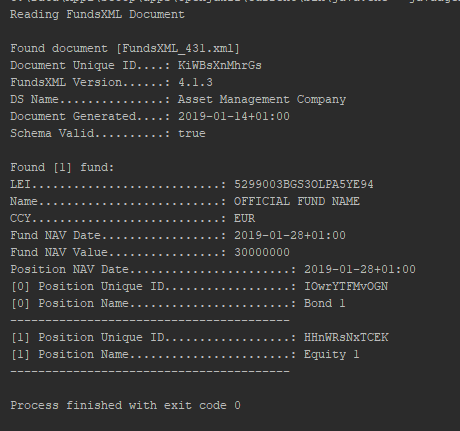
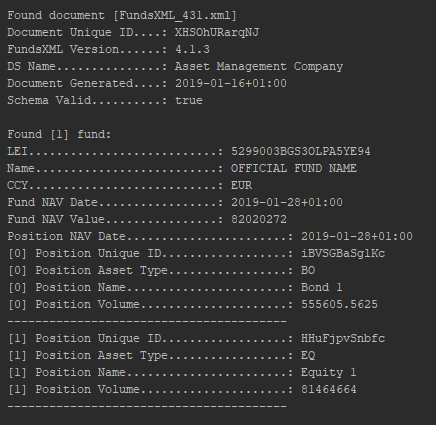
typo + volumes

diff --git a/codeExamples/java/V413/src/main/java/org/fundsxml_413/CreateFundsXMLFile.java b/codeExamples/java/V413/src/main/java/org/fundsxml_413/CreateFundsXMLFile.java
@@ -18,6 +18,7 @@
 package org.fundsxml_413;
 
 import org.apache.commons.lang3.RandomStringUtils;
+import org.apache.commons.lang3.RandomUtils;
 import org.apache.xmlbeans.XmlCursor;
 import org.fundsxml.*;
 import org.fundsxml.FundsXML4Document.FundsXML4.Funds;
@@ -36,6 +37,11 @@ public class CreateFundsXMLFile {
         System.out.println("Creating FundsXML Document");
 
         final String fileName = "FundsXML_431.xml";
+
+        // Random Volume figures
+        Float fundVolume = RandomUtils.nextFloat(1000000, 99999999);
+        Float position1Volume = RandomUtils.nextFloat(0, 1000000);
+        Float position2Volume = fundVolume - position1Volume;
 
         Calendar contentDate = Calendar.getInstance();
         contentDate.set(Calendar.YEAR, 2018);
@@ -90,7 +96,7 @@ public class CreateFundsXMLFile {
         FundAmountType.Amount amount = fundAmountType.addNewAmount();
         amount.setCcy("EUR");
         amount.setIsFundCcy(true);
-        amount.setBigDecimalValue(new BigDecimal(30000000));
+        amount.setBigDecimalValue(new BigDecimal(fundVolume));
 
         // Portfolio
         Portfolios portfolios = fundDynamicDataType.addNewPortfolios();
@@ -114,7 +120,7 @@ public class CreateFundsXMLFile {
         position1.setUniqueID(uniqueID1);
         FundAmountType totalValPos1 = position1.addNewTotalValue();
         FundAmountType.Amount pos1Amount = totalValPos1.addNewAmount();
-        pos1Amount.setBigDecimalValue(new BigDecimal(200000.05));
+        pos1Amount.setBigDecimalValue(new BigDecimal(position1Volume));
         pos1Amount.setCcy("EUR");
         position1.addNewBond().setNominal(new BigDecimal(100));
 
@@ -136,7 +142,7 @@ public class CreateFundsXMLFile {
         position2.setUniqueID(uniqueID2);
         FundAmountType totalValPos2 = position2.addNewTotalValue();
         FundAmountType.Amount pos2Amount = totalValPos2.addNewAmount();
-        pos2Amount.setBigDecimalValue(new BigDecimal(123456789.01));
+        pos2Amount.setBigDecimalValue(new BigDecimal(position2Volume));
         pos2Amount.setCcy("EUR");
         position2.addNewEquity().setUnits(new BigDecimal(333));
 

diff --git a/codeExamples/java/V413/src/main/java/org/fundsxml_413/ReadFundsXMLFile.java b/codeExamples/java/V413/src/main/java/org/fundsxml_413/ReadFundsXMLFile.java
@@ -79,11 +79,14 @@ public class ReadFundsXMLFile {
                     for (PositionType positionType : portfolioType.getPositions().getPositionArray()) {
                         System.out.println(StringUtils.rightPad("[" + positionCount + "] Position Unique ID", holdingsPad, '.') + ": " + positionType.getUniqueID());
 
+
                         for (AssetType assetType: assetArray) {
                             if (assetType.getUniqueID().equals(positionType.getUniqueID())) {
+                                System.out.println(StringUtils.rightPad("[" + positionCount + "] Position Asset Type", holdingsPad, '.') + ": " + assetType.getAssetType());
                                 System.out.println(StringUtils.rightPad("[" + positionCount + "] Position Name", holdingsPad, '.') + ": " + assetType.getName());
                             }
                         }
+                        System.out.println(StringUtils.rightPad("[" + positionCount + "] Position Volume", holdingsPad, '.') + ": " + positionType.getTotalValue().getAmountArray(0).getStringValue());
 
                         positionCount++;
                         System.out.println(StringUtils.rightPad("", holdingsPad, "-"));

diff --git a/codeExamples/java/V413/README.md b/codeExamples/java/V413/README.md
@@ -1,7 +1,9 @@
 # FundsXML 4.3.1 Example
 
 This is an example of creating and reading FundsXML Files with [XML Beans](https://xmlbeans.apache.org/).  
-A compiled schema (jar) is provided on [the FundsXML schema site](http://schema.fundsxml.org) and als library in this project.
+A compiled schema (jar) is provided on [the FundsXML schema site](http://schema.fundsxml.at) and als library in this project.
+
+Two fund holdings (1 bond, 1 equity) are created on the fly randomly.   
 
 ## basics
 * Language:   Java
